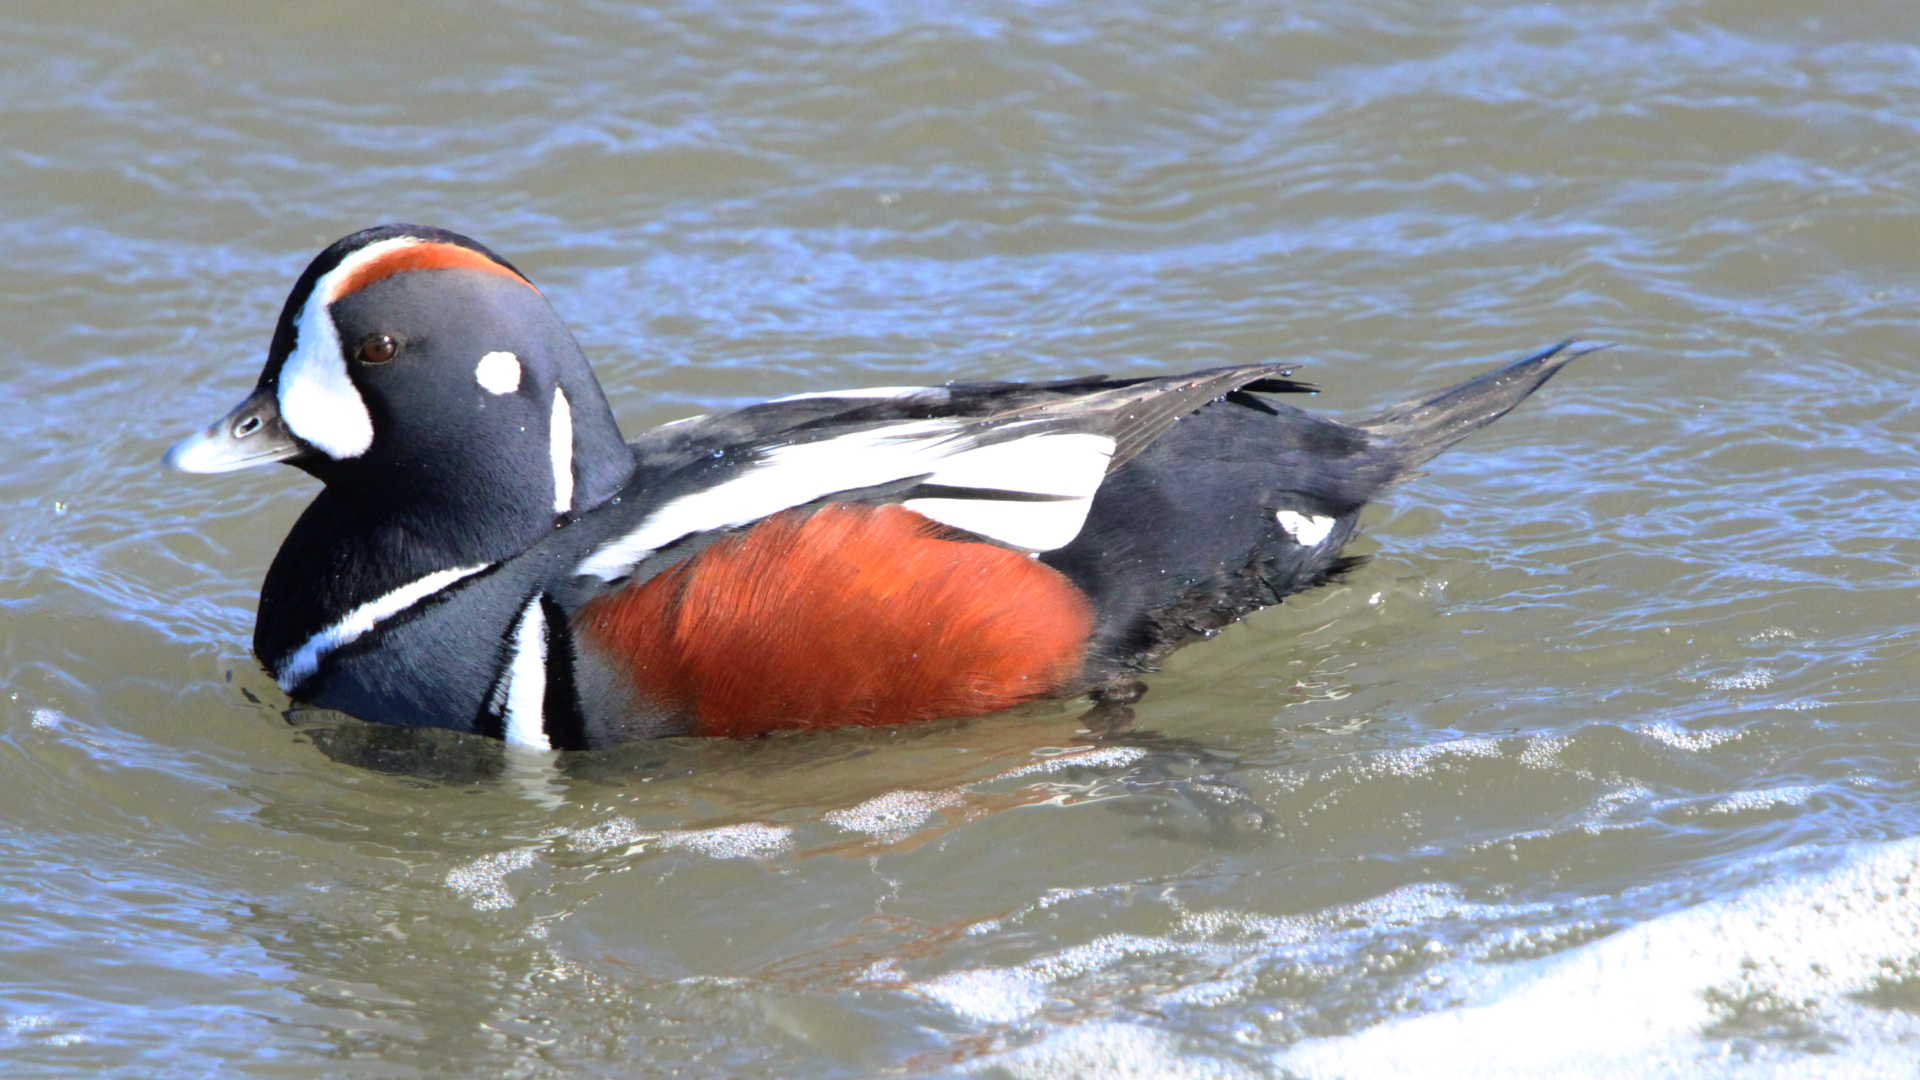
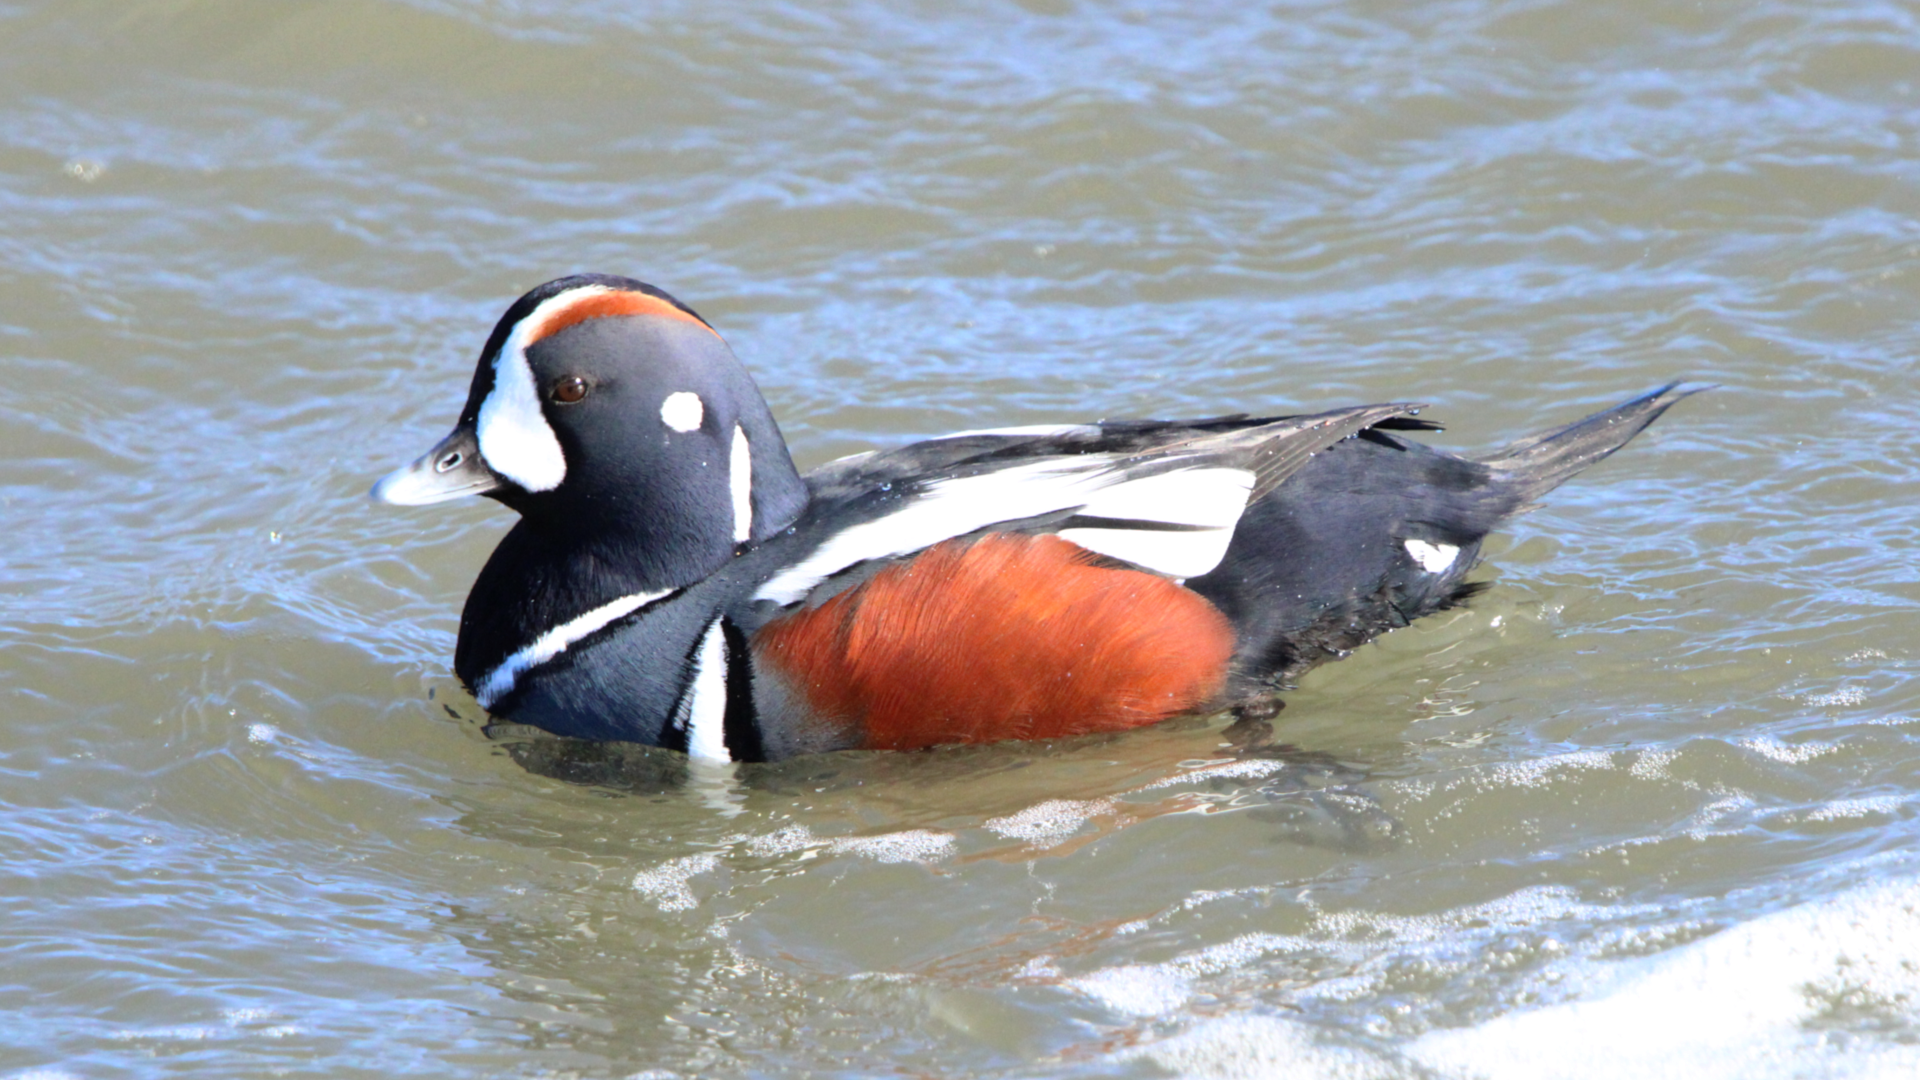
Some changes
- Added Latin names to photos
- Added some new photos
- Removed an old bad photo and reworded descriptions here and there
- Recrop some images
- Updated the bio

diff --git a/src/galleries/image-gallery/ImageGallery.js b/src/galleries/image-gallery/ImageGallery.js
@@ -25,50 +25,85 @@ const categories = ["Birds and nature", "Mathematical visualization", "Other"]
 
 const images = [
     {
+        title: "Bird Bath",
+        description: <>A white-throated sparrow (<i>Zonotrichia albicollis</i>) taking a bath, seen at Sandy Hook in NJ.</>,
+        filename: "bird_bath.png",
+        date: "16 Nov 2025",
+        category: 0
+    },
+    {
+        title: "Kinglet",
+        description: <>A golden-crowned kinglet (<i>Regulus satrapa</i>) seen on a juniper at Sandy Hook in NJ.</>,
+        filename: "kinglet.png",
+        date: "16 Nov 2025",
+        category: 0
+    },
+    {
+        title: "Orb Weaver",
+        description: <>A yellow garden spider (<i>Argiope aurantia</i>) seen at Rea Farm in Cape May, NJ.</>,
+        filename: "orbweaver.png",
+        date: "27 Sep 2025",
+        category: 0
+    },
+    {
+        title: "Sweat Bee",
+        description: <>A sweat bee (<i>Augochlora</i> spp.) seen at Rea Farm in Cape May, NJ.</>,
+        filename: "sweatbee.png",
+        date: "27 Sep 2025",
+        category: 0
+    },
+    {
+        title: "Skipper",
+        description: <>A Huron skipper (<i>Atalopedes huron</i>) seen in my backyard in northern NJ.</>,
+        filename: "skipper.png",
+        date: "3 Sep 2025",
+        category: 0
+    },
+    {
         title: "Common Buckeye",
-        description: "My first non-bird photo on here. A picture of a common buckeye butterfly I took at the Pole Farm in Mercer County, NJ.",
+        description: <>A common buckeye butterfly (<i>Junonia coenia</i>) seen at the Pole Farm in Mercer County, NJ.</>,
         filename: "buckeye_butterfly.png",
-        date: "24 August 2025",
+        date: "24 Aug 2025",
         category: 0
     },
     {
         title: "Common Yellowthroat",
-        description: "A picture of a perched common yellowthroat, taken at Troy Meadows in Parsippany, NJ.",
+        description: <>A perched common yellowthroat (<i>Geothlypis trichas</i>), seen at Troy Meadows in Parsippany, NJ.</>,
         filename: "yellowthroat.png",
         date: "25 May 2025",
         category: 0
     },
     {
         title: "Forster's Tern",
-        description: "A picture of a Forster's tern in flight, taken at Forsythe NWR near Galloway, NJ.",
+        description:  <>A Forster's tern (<i>Sterna forsteri</i>) in flight, seen at Forsythe NWR near Galloway, NJ.</>,
         filename: "tern.png",
         date: "23 Apr 2025",
         category: 0
     },
     {
         title: "Violet-green Swallow",
-        description: "A picture I took of an oddly cooperative violet-green swallow near La Ventana, Baja California Sur.",
+        description: <>An oddly cooperative violet-green swallow (<i>Tachycineta thalassina</i>) near La Ventana, Baja California Sur.</>,
         filename: "violetgreen.png",
         date: "22 Feb 2025",
         category: 0
     },
     {
         title: "California Quail",
-        description: "A picture I took of a California quail perched on a palm tree in La Ventana, Baja California Sur, Mexico.",
+        description: <>A California quail (<i>Callipepla californica</i>) perched on a palm tree in La Ventana, Baja California Sur, Mexico.</>,
         filename: "califquail.png",
         date: "22 Feb 2025",
         category: 0
     },
     {
         title: "Wood Duck",
-        description: "A rather confused wood duck, seen at the Potash Lake Recreational Area in Oakland, NJ.",
+        description: <>A rather confused wood duck (<i>Aix sponsa</i>), seen at the Potash Lake Recreational Area in Oakland, NJ.</>,
         filename: "woodduck.png",
         date: "26 Jan 2025",
         category: 0
     }, 
     {
         title: "Harlequin Duck",
-        description: "A harlequin duck, photographed at Barnegat Light in NJ.",
+        description: <>A male harlequin duck (<i>Histrionicus histrionicus</i>), photographed at Barnegat Light in NJ.</>,
         filename: "harlequinduck.png",
         date: "2 Jan 2025",
         category: 0
@@ -102,7 +137,7 @@ const images = [
     },
     {
         title: "Vermillion Flycatcher",
-        description: "A vermillion flycatcher, photographed during a vacation to the Quindio region of Colombia.",
+        description: <>A vermillion flycatcher (<i>Pyrocephalus obscurus</i>), photographed during a vacation to the Quindio region of Colombia.</>,
         filename: "vermillionflycatcher.png",
         date: "1 Sep 2024",
         category: 0
@@ -116,7 +151,7 @@ const images = [
     },
     {
         title: "Tree Swallow",
-        description: "A tree swallow on a branch, photographed at the Pole Farm in Mercer County, NJ.",
+        description: <>A tree swallow (<i>Tachycineta bicolor</i>) on a branch, photographed at the Pole Farm in Mercer County, NJ.</>,
         filename: "treeswallow.png",
         date: "30 Jun 2024",
         category: 0
@@ -137,42 +172,42 @@ const images = [
     },
     {
         title: "Chuck-will's-widow",
-        description: "A female chuck-will's-widow sitting on her nest. Photographed at Fort De Soto, FL.",
+        description: <>A female chuck-will's-widow (<i>Antrostomus caroliniensis</i>) sitting on her nest. Photographed at Fort De Soto, FL.</>,
         filename: "chuckwillswidow.png",
         date: "27 Apr 2024",
         category: 0
     },
     {
         title: "Purple Gallinule",
-        description: "A purple gallinule, photographed in Sarasota, FL while on vacation.",
+        description: <>A purple gallinule (<i>Porphyrio martinica</i>), photographed in Sarasota, FL while on vacation.</>,
         filename: "purplegallinule.png",
         date: "25 Apr 2024",
         category: 0
     },
     {
         title: "Oystercatcher",
-        description: "An American oystercatcher in front of a wave. I took this picture at Sandy Hook NWR in New Jersey.",
+        description: <>An American oystercatcher (<i>Haematopus palliatus</i>) in front of a wave, seen at Sandy Hook NWR in New Jersey.</>,
         filename: "oystercatcher.png",
         date: "21 Apr 2024",
         category: 0
     },
     {
         title: "Monk Parakeets",
-        description: <>One of the many nests of feral monk parakeets who have made their home in Edgewater, NJ.</>,
+        description: <>One of the many nests of feral monk parakeets (<i>Myiopsitta monachus</i>) who have made their home in Edgewater, NJ.</>,
         filename: "parakeets.png",
         date: "9 Apr 2024",
         category: 0
     },
     {
         title: "Osprey",
-        description: <>An osprey in flight over the pond at Garret Mountain Park near Patterson, NJ.</>,
+        description: <>An osprey (<i>Pandion haliaetus</i>) in flight over the pond at Garret Mountain Park near Patterson, NJ.</>,
         filename: "osprey.png",
         date: "7 Apr 2024",
         category: 0
     },
     {
         title: "Brown Creeper",
-        description: <>A brown creeper climbing a tree, sighted near Garret Mountain Park near Patterson, NJ.</>,
+        description: <>A brown creeper (<i>Certhia americana</i>) climbing a tree, sighted near Garret Mountain Park near Patterson, NJ.</>,
         filename: "creeper.png",
         date: "7 Apr 2024",
         category: 0
@@ -236,21 +271,21 @@ const images = [
     },
     {
         title: "Sanderling",
-        description: "A picture I took of a sanderling at Barnegat Light State Park in New Jersey.",
+        description: <>A sanderling (<i>Calidris alba</i>) at Barnegat Light State Park in New Jersey.</>,
         filename: "sanderling.png",
         date: "2 Feb 2024",
         category: 0
     },
     {
         title: "Red-breasted Merganser",
-        description: "A picture I took of a red-breasted merganser male showing his crest at Barnegat Light State Park in New Jersey.",
+        description: <>A red-breasted merganser (<i>Mergus serrator</i>) male showing his crest at Barnegat Light State Park in New Jersey.</>,
         filename: "merganser.png",
         date: "2 Feb 2024",
         category: 0
     },
     {
         title: "Long-tailed Duck Male",
-        description: "A picture of one of my favorite sea ducks: a long-tailed duck male, taken by me at Barnegat Light State Park in New Jersey.",
+        description: <>One of my favorite sea ducks: a long-tailed duck (<i>Clangula hyemalis</i>) male, seen at Barnegat Light State Park in New Jersey.</>,
         filename: "longtail2.png",
         date: "2 Feb 2024",
         category: 0
@@ -296,13 +331,6 @@ const images = [
         filename: "newtonfractal1.png",
         date: "8 Jan 2024",
         category: 1
-    },
-    {
-        title: "Loon in Flight",
-        description: "A picture of a red-throated loon starting to fly. I took this picture at Sandy Hook NWR in New Jersey.",
-        filename: "redthroatedloon.png",
-        date: "31 Dec 2023",
-        category: 0
     },
     {
         title: "Islamic-style Hyperbolic Tiling",
@@ -404,7 +432,7 @@ const images = [
     },
     {
         title: "Coal Dumper",
-        description: "A picture I took of the abandoned McMyler coal dumper in Port Reading, NJ.",
+        description: "The abandoned McMyler coal dumper in Port Reading, NJ.",
         filename: "coaldumper.jpg",
         date: "30 Aug 2023",
         category: 2
@@ -425,7 +453,7 @@ const images = [
     },
     {
         title: "Burrowing Owl",
-        description: "I took this picture of a burrowing owl (Athene cunicularia) at a baseball field in Cape Coral, FL.",
+        description: <>I took this picture of a burrowing owl (<i>Athene cunicularia</i>) at a baseball field in Cape Coral, FL.</>,
         filename: "burrowingowl.jpg",
         date: "22 Nov 2021",
         category: 0
@@ -470,6 +498,7 @@ function ImageGallery() {
         // Then sort images into those categories
         let imgData, i = 0;
         for (let img of images) {
+            console.log(img);
             let localPath = require("./pics/" + img.filename);
             imgData = {...img, localPath, idx: i};
             data[img.category].push(imgData);

diff --git a/src/main-pages/about/AboutPage.js b/src/main-pages/about/AboutPage.js
@@ -25,7 +25,7 @@ function AboutPage() {
                 <hr />
 
                 <p>
-                    Hello. I&apos;m Zenzicubic, and I&apos;m a VTuber. I make YouTube videos about my passions: mainly practical chemistry and math (with a focus on aesthetically pleasing concepts, especially in group theory, dynamical systems, fractals, and geometry), but also whatever happens to interest me at a given moment. I&apos;ve been on YouTube since 2020, and I&apos;ve been a VTuber since January 2022. I film experiments in my home chemistry lab, and make animated math videos and explainers &#224; la 3Blue1Brown.
+                    Hello. I&apos;m Zenzicubic, and I make YouTube videos about my passions: mainly practical chemistry and math (with a focus on aesthetically pleasing concepts, especially in group theory, dynamical systems, fractals, and geometry), but also whatever happens to interest me at a given moment. I&apos;ve been on YouTube since 2020, and I have had a VTuber avatar in some form since January 2022. I film experiments in my home chemistry lab, and make animated math videos and explainers &#224; la 3Blue1Brown.
                     I&apos;ve also made <a
                         href="https://youtu.be/MA5kXfjLY7Y" 
                         target="_blank" rel="noopener noreferrer">

diff --git a/src/galleries/image-gallery/img-gallery.css b/src/galleries/image-gallery/img-gallery.css
@@ -41,6 +41,7 @@
     visibility: hidden;
     flex-direction: row;
     align-items: center;
+    box-sizing: border-box;
     justify-content: center;
 
     top: 0;
@@ -49,6 +50,7 @@
     width: 100vw;
     height: 100vh;
     z-index: 1000;
+    padding: var(--small-spacing);
     background-color: var(--dark-col-2);
     transition: opacity var(--transition-duration);
 }
